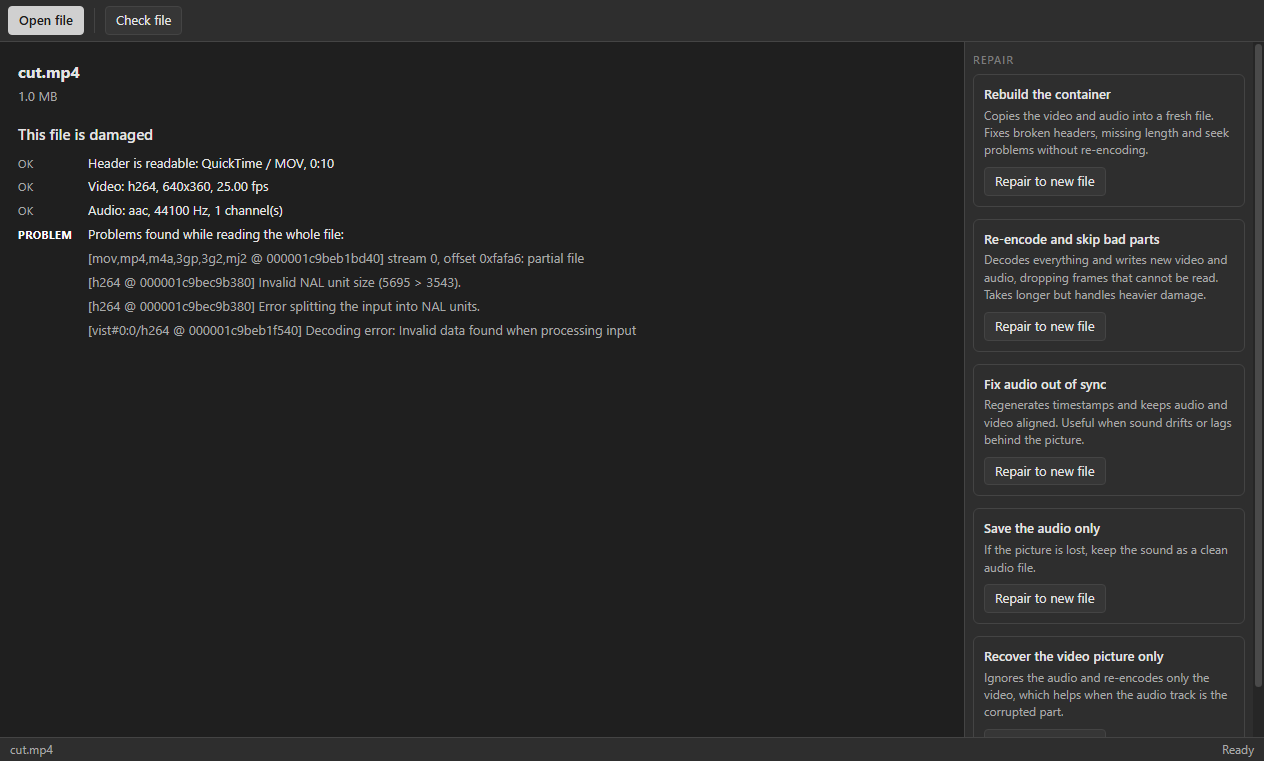
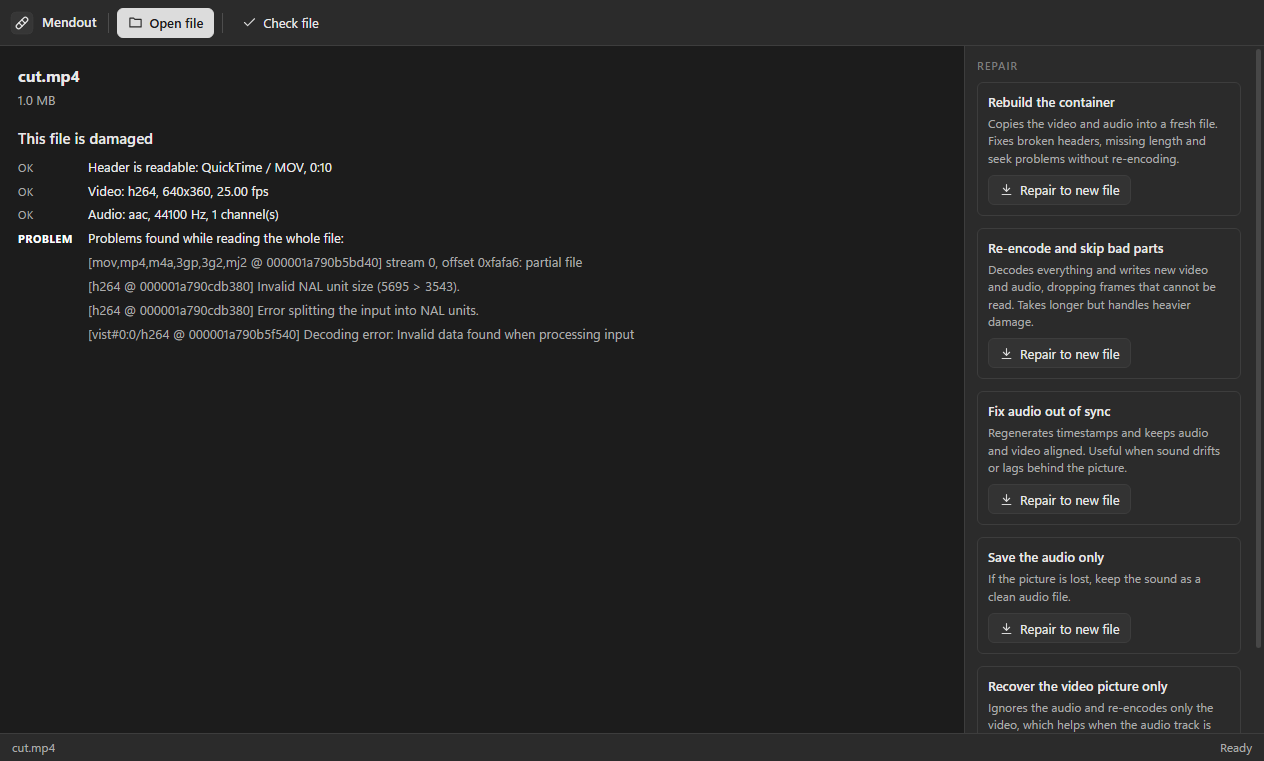
Mendout 1.0.2: refreshed interface
Refreshed interface: line icons on every toolbar button, the app mark in the top bar, consistent control sizes and spacing, tidier side panels, and a toolbar that adapts to smaller windows. Also includes layout fixes and a fuller guide on the project page.

diff --git a/renderer/lookout.css b/renderer/lookout.css
@@ -1,62 +1,119 @@
-/* Lookout gray UI kit: flat, no glow, no gradients, no hue. */
+/* Lookout gray UI kit v2: flat, calm, no hue. Shared by every Lookout app. */
 :root{
-  --bg:#262626; --bg-2:#2e2e2e; --bg-3:#363636; --line:#444; --line-2:#555;
-  --text:#e4e4e4; --text-2:#a8a8a8; --text-3:#7c7c7c;
-  --accent:#d0d0d0; --accent-ink:#1c1c1c; --focus:#9a9a9a;
-  --radius:4px; --font:"Segoe UI",system-ui,-apple-system,sans-serif; --mono:Consolas,"Cascadia Mono",monospace;
+  --bg:#232323; --bg-2:#2b2b2b; --bg-3:#333333; --bg-4:#3b3b3b; --stage:#1c1c1c;
+  --line:#3d3d3d; --line-2:#4d4d4d; --line-3:#5c5c5c;
+  --text:#e8e8e8; --text-2:#ababab; --text-3:#7d7d7d;
+  --accent:#dcdcdc; --accent-ink:#1b1b1b; --focus:#a0a0a0;
+  --radius:6px; --h:30px;
+  --font:"Segoe UI Variable Text","Segoe UI",system-ui,-apple-system,sans-serif; --mono:Consolas,"Cascadia Mono",monospace;
 }
 *{box-sizing:border-box;margin:0;padding:0}
 html,body{height:100%;background:var(--bg);color:var(--text);font:13px/1.45 var(--font);overflow:hidden;user-select:none;-webkit-font-smoothing:antialiased}
 button,input,select,textarea{font:inherit;color:inherit}
 .app{display:grid;grid-template-rows:auto 1fr auto;height:100vh}
-.toolbar{display:flex;align-items:center;gap:4px;padding:6px 8px;background:var(--bg-2);border-bottom:1px solid var(--line);flex-wrap:wrap}
-.toolbar .sep{width:1px;align-self:stretch;background:var(--line);margin:2px 6px}
-.toolbar .grow{flex:1}
-.btn{background:var(--bg-3);border:1px solid var(--line);border-radius:var(--radius);padding:4px 10px;cursor:pointer;white-space:nowrap}
-.btn:hover{background:#404040;border-color:var(--line-2)}
+
+/* ---------- toolbar ---------- */
+.toolbar{display:flex;align-items:center;gap:2px;padding:7px 10px;min-height:46px;background:var(--bg-2);border-bottom:1px solid var(--line);flex-wrap:nowrap;overflow-x:auto;overflow-y:hidden;scrollbar-width:none}
+.toolbar::-webkit-scrollbar{height:0}
+.toolbar>*{flex-shrink:0}
+.toolbar .sep{width:1px;height:20px;align-self:center;background:var(--line-2);margin:0 6px}
+.toolbar .grow{flex:1 1 auto;min-width:8px}
+.toolbar input[type=text],.toolbar input[type=search]{width:170px}
+.brand{display:flex;align-items:center;gap:8px;padding-right:6px;margin-right:4px;font-weight:600;font-size:13px;color:var(--text)}
+.brand img{width:24px;height:24px;border-radius:6px;display:block}
+.brand+.sep{margin-left:0}
+
+/* ---------- buttons ---------- */
+.btn{display:inline-flex;align-items:center;justify-content:center;gap:6px;height:var(--h);padding:0 10px;background:var(--bg-3);border:1px solid var(--line);border-radius:var(--radius);cursor:pointer;white-space:nowrap;line-height:1;transition:background .08s,border-color .08s}
+.btn:hover{background:var(--bg-4);border-color:var(--line-2)}
 .btn:active{background:#2a2a2a}
-.btn:focus-visible,input:focus-visible,select:focus-visible,textarea:focus-visible,[tabindex]:focus-visible{outline:1px solid var(--focus);outline-offset:1px}
+.btn:focus-visible,input:focus-visible,select:focus-visible,textarea:focus-visible,[tabindex]:focus-visible{outline:2px solid var(--focus);outline-offset:1px}
 .btn.primary{background:var(--accent);color:var(--accent-ink);border-color:var(--accent);font-weight:600}
-.btn.primary:hover{background:#e0e0e0}
-.btn.on{background:#4a4a4a;border-color:var(--line-2)}
-.btn[disabled]{opacity:.4;pointer-events:none}
-.btn.icon{padding:4px 8px;min-width:30px;text-align:center}
-input[type=text],input[type=number],input[type=search],select,textarea{background:var(--bg);border:1px solid var(--line);border-radius:var(--radius);padding:4px 8px;user-select:text}
-input[type=range]{accent-color:#bdbdbd}
-input[type=color]{border:1px solid var(--line);background:var(--bg);width:28px;height:24px;padding:1px;border-radius:var(--radius)}
-label.field{display:flex;flex-direction:column;gap:3px;color:var(--text-2);font-size:12px}
-.main{display:flex;min-height:0}
-.sidebar{width:220px;background:var(--bg-2);border-right:1px solid var(--line);overflow:auto;padding:8px;flex-shrink:0}
-.sidebar.right{border-right:0;border-left:1px solid var(--line);width:250px}
-.sidebar h3,.panel-title{font-size:11px;text-transform:uppercase;letter-spacing:.08em;color:var(--text-3);margin:10px 0 6px;font-weight:600}
+.btn.primary:hover{background:#ececec;border-color:#ececec}
+.btn.on{background:#4a4a4a;border-color:var(--line-3);box-shadow:inset 0 0 0 1px #6a6a6a}
+.btn[disabled]{opacity:.38;pointer-events:none}
+.btn.icon{padding:0;width:var(--h);min-width:var(--h)}
+.btn .ic{width:15px;height:15px;flex-shrink:0;display:block;opacity:.92}
+.toolbar .btn:not(.primary):not(.on){background:transparent;border-color:transparent}
+.toolbar .btn:not(.primary):not(.on):hover{background:var(--bg-4);border-color:var(--line-2)}
+
+.toolbar.c1 .btn.minor:not(.primary):has(> svg.ic),.toolbar.c2 .btn:not(.primary):has(> svg.ic),.toolbar.c3 .btn:has(> svg.ic){font-size:0;gap:0;width:var(--h);padding:0}
+.toolbar.c2 .brand span{display:none}
+.toolbar.c2 input[type=text],.toolbar.c2 input[type=search]{width:120px}
+
+/* ---------- fields ---------- */
+input[type=text],input[type=number],input[type=search],input[type=date],select,textarea{background:var(--bg);border:1px solid var(--line-2);border-radius:var(--radius);padding:0 9px;height:var(--h);user-select:text;min-width:0}
+textarea{height:auto;padding:7px 9px;resize:vertical;line-height:1.45}
+select{padding-right:6px;cursor:pointer}
+input:hover,select:hover,textarea:hover{border-color:var(--line-3)}
+input[type=range]{accent-color:#c8c8c8;height:var(--h)}
+input[type=checkbox]{accent-color:#c8c8c8;width:15px;height:15px;cursor:pointer}
+input[type=color]{border:1px solid var(--line-2);background:var(--bg);width:30px;height:var(--h);padding:2px;border-radius:var(--radius)}
+label.field{display:flex;flex-direction:column;gap:4px;color:var(--text-2);font-size:12px}
+label.field>input,label.field>select,label.field>textarea{width:100%;color:var(--text);font-size:13px}
+
+/* ---------- layout ---------- */
+.main{display:flex;min-height:0;min-width:0}
+.sidebar{width:228px;background:var(--bg-2);border-right:1px solid var(--line);overflow:auto;padding:10px 12px 14px;flex-shrink:0}
+.sidebar.right{border-right:0;border-left:1px solid var(--line);width:272px}
+.sidebar h3,.panel-title{font-size:11px;text-transform:uppercase;letter-spacing:.08em;color:var(--text-3);margin:16px 0 8px;font-weight:600}
 .sidebar h3:first-child{margin-top:2px}
-.stage{flex:1;min-width:0;min-height:0;position:relative;background:#1f1f1f;overflow:auto}
-.status{display:flex;gap:16px;align-items:center;padding:3px 10px;background:var(--bg-2);border-top:1px solid var(--line);color:var(--text-2);font-size:12px}
+.sidebar input[type=text],.sidebar input[type=search],.sidebar select,.sidebar textarea{width:100%}
+.sidebar .row{flex-wrap:wrap}
+.sidebar .row>.btn{flex:1 1 auto}
+.sidebar .row>label.field{flex:1 1 0;min-width:0}
+.sidebar label.field{margin-bottom:10px}
+.sidebar .btn{width:auto}
+.sidebar>.btn{width:100%;margin-bottom:6px}
+.stage{flex:1;min-width:0;min-height:0;position:relative;background:var(--stage);overflow:auto}
+.status{display:flex;gap:18px;align-items:center;height:28px;padding:0 12px;background:var(--bg-2);border-top:1px solid var(--line);color:var(--text-2);font-size:12px;white-space:nowrap;overflow:hidden}
 .status .grow{flex:1}
 .list{display:flex;flex-direction:column;gap:2px}
-.list .item{padding:5px 8px;border-radius:var(--radius);cursor:pointer;border:1px solid transparent;display:flex;gap:6px;align-items:center}
+.list .item{padding:6px 8px;border-radius:var(--radius);cursor:pointer;border:1px solid transparent;display:flex;gap:6px;align-items:center;min-height:30px}
 .list .item:hover{background:var(--bg-3)}
-.list .item.sel{background:#444;border-color:var(--line-2)}
+.list .item.sel{background:var(--bg-4);border-color:var(--line-2)}
 .row{display:flex;gap:6px;align-items:center}
+.grow{flex:1 1 auto;min-width:0}
+.brow{display:grid;grid-template-columns:1fr 1fr;gap:6px;margin-bottom:6px}
+.brow>.btn{justify-content:flex-start}
+.frow{display:flex;align-items:center;gap:8px;margin-bottom:8px;color:var(--text-2)}
+.frow>input[type=text],.frow>input[type=number]{flex:1;color:var(--text)}
+.frow>span:first-child{min-width:44px}
+.frow>select{flex:1;min-width:0}
+.sidebar input[type=range]{width:100%}
+.sidebar .swatches{margin-bottom:10px}
+.list .item .btn{height:24px!important;width:26px!important;padding:0!important;font-size:0!important;gap:0;background:transparent;border-color:transparent;opacity:.55}
+.list .item:hover .btn,.list .item.sel .btn{opacity:1}
+.list .item .btn:hover{background:var(--bg-4);border-color:var(--line-2)}
 .col{display:flex;flex-direction:column;gap:6px}
 .muted{color:var(--text-2)}
-.empty{position:absolute;inset:0;display:flex;flex-direction:column;align-items:center;justify-content:center;gap:10px;color:var(--text-3);text-align:center;padding:20px}
-.empty .big{font-size:18px;color:var(--text-2)}
-.modal-back{position:fixed;inset:0;background:rgba(0,0,0,.55);display:flex;align-items:center;justify-content:center;z-index:50}
-.modal{background:var(--bg-2);border:1px solid var(--line-2);border-radius:6px;min-width:340px;max-width:80vw;max-height:85vh;overflow:auto;padding:16px;display:flex;flex-direction:column;gap:12px}
-.modal h2{font-size:15px;font-weight:600}
-.toast{position:fixed;left:50%;bottom:34px;transform:translateX(-50%);background:var(--bg-3);border:1px solid var(--line-2);padding:7px 14px;border-radius:var(--radius);z-index:60}
-.progress{height:6px;background:var(--bg);border:1px solid var(--line);border-radius:3px;overflow:hidden}
-.progress>i{display:block;height:100%;background:var(--accent);width:0}
-table.grid{border-collapse:collapse;width:100%}
-table.grid th,table.grid td{border:1px solid var(--line);padding:4px 8px;text-align:left}
-table.grid th{background:var(--bg-2);color:var(--text-2);font-weight:600}
-::-webkit-scrollbar{width:11px;height:11px}
-::-webkit-scrollbar-thumb{background:#4a4a4a;border:2px solid var(--bg);border-radius:6px}
-::-webkit-scrollbar-track{background:var(--bg)}
-.swatches{display:flex;flex-wrap:wrap;gap:4px}
-.swatches button{width:22px;height:22px;border:1px solid var(--line-2);border-radius:3px;cursor:pointer;padding:0}
-.swatches button.on{outline:2px solid var(--accent);outline-offset:1px}
-.progress>div{display:block;height:100%;background:var(--accent)}
-table.grid tr.sel td{background:#3a3a3a}
+.empty{position:absolute;inset:0;display:flex;flex-direction:column;align-items:center;justify-content:center;gap:12px;color:var(--text-3);text-align:center;padding:24px}
+.empty .big{font-size:18px;color:var(--text-2);font-weight:600}
+
+/* ---------- overlays ---------- */
+.modal-back{position:fixed;inset:0;background:rgba(0,0,0,.6);display:flex;align-items:center;justify-content:center;z-index:50}
+.modal{background:var(--bg-2);border:1px solid var(--line-2);border-radius:10px;min-width:360px;max-width:80vw;max-height:85vh;overflow:auto;padding:20px;display:flex;flex-direction:column;gap:14px;box-shadow:0 18px 50px rgba(0,0,0,.5)}
+.modal h2{font-size:16px;font-weight:600}
+.toast{position:fixed;left:50%;bottom:40px;transform:translateX(-50%);background:var(--bg-4);border:1px solid var(--line-3);padding:9px 16px;border-radius:8px;z-index:60;box-shadow:0 8px 24px rgba(0,0,0,.4)}
+.progress{height:6px;background:var(--bg);border:1px solid var(--line);border-radius:4px;overflow:hidden}
+.progress>i,.progress>div{display:block;height:100%;background:var(--accent);width:0}
+
+/* ---------- tables ---------- */
+table.grid{border-collapse:separate;border-spacing:0;width:100%}
+table.grid th,table.grid td{border-bottom:1px solid var(--line);padding:0 12px;height:38px;text-align:left;vertical-align:middle}
+table.grid th{background:var(--bg-2);color:var(--text-2);font-weight:600;font-size:12px;position:sticky;top:0;z-index:1;height:34px}
+table.grid tbody tr:hover td{background:#262626}
+table.grid tr.sel td{background:#353535}
 table.grid tbody tr{cursor:default}
+table.grid td .btn{height:26px;margin-left:8px;vertical-align:middle}
+table.grid td{white-space:nowrap}
+
+/* ---------- misc ---------- */
+::-webkit-scrollbar{width:11px;height:11px}
+::-webkit-scrollbar-thumb{background:#474747;border:3px solid transparent;background-clip:padding-box;border-radius:8px}
+::-webkit-scrollbar-thumb:hover{background:#5a5a5a;background-clip:padding-box;border:3px solid transparent}
+::-webkit-scrollbar-track,::-webkit-scrollbar-corner{background:transparent}
+.swatches{display:flex;flex-wrap:wrap;gap:6px}
+.swatches button{width:24px;height:24px;border:1px solid var(--line-3);border-radius:5px;cursor:pointer;padding:0}
+.swatches button.on{outline:2px solid var(--accent);outline-offset:2px}
+kbd{font-family:var(--mono);font-size:11px;background:var(--bg-3);border:1px solid var(--line-2);border-bottom-width:2px;border-radius:4px;padding:0 5px}

diff --git a/renderer/kit.js b/renderer/kit.js
@@ -1,0 +1,137 @@
+// Lookout UI kit: adds the app mark to the toolbar and monochrome line icons to buttons.
+// Purely visual. Buttons keep their text, so nothing else changes.
+(function () {
+  'use strict';
+  const NS = 'http://www.w3.org/2000/svg';
+  const P = {
+    plus: 'M12 5v14M5 12h14',
+    file: 'M14 3H6v18h12V7zM14 3v4h4M12 11v6M9 14h6',
+    folder: 'M3 7V5h6l2 2h10v12H3z',
+    save: 'M5 3h11l3 3v15H5zM8 3v5h7V3M8 21v-7h8v7',
+    saveas: 'M5 3h11l3 3v6M5 3v18h7M8 3v5h7V3M15 21l6-6-2-2-6 6v2z',
+    undo: 'M9 14L4 9l5-5M4 9h10a6 6 0 010 12h-3',
+    redo: 'M15 14l5-5-5-5M20 9H10a6 6 0 000 12h3',
+    trash: 'M4 7h16M10 11v6M14 11v6M6 7l1 14h10l1-14M9 7V4h6v3',
+    copy: 'M9 9h11v11H9zM5 15H4V4h11v1',
+    paste: 'M9 4h6v3H9zM8 5H5v16h14V5h-3',
+    dup: 'M8 8h12v12H8zM4 16V4h12M14 11v6M11 14h6',
+    download: 'M12 4v11M7 10l5 5 5-5M5 20h14',
+    fit: 'M4 9V4h5M15 4h5v5M20 15v5h-5M9 20H4v-5',
+    play: 'M7 4l13 8-13 8z',
+    stop: 'M6 6h12v12H6z',
+    pause: 'M7 5h3v14H7zM14 5h3v14h-3z',
+    rec: 'M12 5a7 7 0 100 14 7 7 0 000-14z',
+    scissors: 'M6 9a3 3 0 100-6 3 3 0 000 6zM6 21a3 3 0 100-6 3 3 0 000 6zM8.2 7.8L20 19M8.2 16.2L20 5',
+    pointer: 'M5 3l14 7-6 2-2 6z',
+    hand: 'M8 13V6a1.5 1.5 0 013 0v5M11 11V4.5a1.5 1.5 0 013 0V11M14 11V6a1.5 1.5 0 013 0v8a7 7 0 01-7 7 6 6 0 01-5-3l-2.5-4.5a1.5 1.5 0 012.6-1.5L8 15',
+    connector: 'M5 19L19 5M13 5h6v6',
+    frame: 'M7 3v18M17 3v18M3 7h18M3 17h18',
+    rect: 'M4 6h16v12H4z',
+    ellipse: 'M12 5c4.4 0 8 3.1 8 7s-3.6 7-8 7-8-3.1-8-7 3.6-7 8-7z',
+    line: 'M5 19L19 5',
+    text: 'M5 6V4h14v2M12 4v16M9 20h6',
+    highlight: 'M14 4l6 6-8 8H6v-6zM4 21h16',
+    pen: 'M4 20l4-1 11-11-3-3L5 16zM14 7l3 3',
+    redact: 'M4 8h16v8H4z',
+    sign: 'M3 17c3-6 5-9 7-9 3 0-2 9 1 9 2 0 3-3 5-3s1 3 5 3M3 21h18',
+    eraser: 'M8 20l-4-4 10-10 6 6-10 8zM12 20h8',
+    search: 'M11 4a7 7 0 100 14 7 7 0 000-14zM16 16l5 5',
+    list: 'M9 6h11M9 12h11M9 18h11M4 6h.01M4 12h.01M4 18h.01',
+    child: 'M5 4v8a3 3 0 003 3h11M15 11l4 4-4 4',
+    sibling: 'M5 6h14M5 12h14M12 15v6M9 18h6',
+    collapse: 'M6 9l6 6 6-6',
+    expand: 'M7 14l5-5 5 5',
+    calendar: 'M4 6h16v14H4zM4 10h16M8 3v5M16 3v5',
+    diamond: 'M12 3l9 9-9 9-9-9z',
+    up: 'M12 19V5M6 11l6-6 6 6',
+    down: 'M12 5v14M6 13l6 6 6-6',
+    refresh: 'M20 11a8 8 0 10-2.3 5.7M20 4v7h-7',
+    check: 'M4 12l5 5L20 6',
+    convert: 'M4 8h13M13 4l4 4-4 4M20 16H7M11 12l-4 4 4 4',
+    eye: 'M2 12s4-7 10-7 10 7 10 7-4 7-10 7S2 12 2 12zM12 9a3 3 0 100 6 3 3 0 000-6z',
+    info: 'M12 3a9 9 0 100 18 9 9 0 000-18zM12 11v6M12 7.5h.01',
+    front: 'M8 8h12v12H8zM4 4h10v3M4 4v10h3',
+    back: 'M4 4h12v12H4zM20 8v12H8v-4',
+    merge: 'M6 3v6a6 6 0 006 6h6M15 12l3 3-3 3M6 21v-4',
+    rotl: 'M4 10a8 8 0 112 6M4 4v6h6',
+    rotr: 'M20 10a8 8 0 10-2 6M20 4v6h-6',
+    blank: 'M6 3h12v18H6z',
+    extract: 'M14 3H6v18h12V7zM14 3v4h4M12 10v7M9 14l3 3 3-3',
+    mic: 'M12 3a3 3 0 00-3 3v6a3 3 0 006 0V6a3 3 0 00-3-3zM6 11a6 6 0 0012 0M12 17v4',
+    clear: 'M6 6l12 12M18 6L6 18',
+    gaps: 'M3 6v12M21 6v12M7 12h10M10 9l-3 3 3 3M14 9l3 3-3 3',
+    title: 'M4 5h16v14H4zM8 9h8M12 9v7',
+    dashed: 'M4 12h3M10 12h4M17 12h3',
+    arrow: 'M4 12h15M14 7l5 5-5 5',
+    elbow: 'M4 6h8v12h8',
+    label: 'M3 12l6-7h12v14H9zM8 12h.01',
+    image: 'M4 5h16v14H4zM4 16l5-5 4 4 3-3 4 4M15 9h.01',
+    vector: 'M5 19L12 5l7 14M8 13h8M3 19h4M17 19h4',
+    table: 'M4 5h16v14H4zM4 10h16M4 15h16M10 5v14',
+    lock: 'M6 11h12v9H6zM8 11V8a4 4 0 018 0v3',
+    unlock: 'M6 11h12v9H6zM8 11V8a4 4 0 017.5-2',
+    eyeoff: 'M3 3l18 18M10.6 6.1A10 10 0 0112 6c6 0 10 6 10 6a17 17 0 01-3 3.6M6.6 6.6C3.8 8.3 2 12 2 12s4 7 10 7a9.7 9.7 0 004.4-1',
+  };
+  const MAP = {
+    'New': 'file', 'Open': 'folder', 'Open project': 'folder', 'Open file': 'folder', 'Save': 'save', 'Save project': 'save', 'Save as': 'saveas',
+    'Undo': 'undo', 'Redo': 'redo', 'Delete': 'trash', 'Delete clip': 'trash', 'Remove selected': 'trash', 'Copy': 'copy', 'Paste': 'paste', 'Duplicate': 'dup',
+    'Export PNG': 'image', 'Export SVG': 'vector', 'Export CSV': 'table', 'Export': 'download', 'Export page as PNG': 'download', 'Extract all text': 'text',
+    'Fit': 'fit', 'Play': 'play', 'Stop': 'stop', 'Pause': 'pause', 'Resume': 'play', 'Record': 'rec', 'Split': 'scissors', 'Split here': 'scissors',
+    'Select': 'pointer', 'Move': 'pointer', 'Hand': 'hand', 'Connector': 'connector', 'Frame': 'frame', 'Rectangle': 'rect', 'Box': 'rect', 'Ellipse': 'ellipse', 'Line': 'line', 'Text': 'text',
+    'Highlight': 'highlight', 'Pen': 'pen', 'Redact': 'redact', 'Sign': 'sign', 'Erase': 'eraser', 'Preview': 'eye', 'Outline': 'list',
+    'Add child': 'child', 'Add sibling': 'sibling', 'Edit': 'pen', 'Collapse': 'collapse', 'Expand all': 'expand', 'Today': 'calendar',
+    'Add task': 'plus', 'Add milestone': 'diamond', 'Move up': 'up', 'Move down': 'down', 'Up': 'up', 'Down': 'down',
+    'Import media': 'plus', 'Add files': 'plus', 'Output folder': 'folder', 'Convert all': 'convert', 'Clear finished': 'clear', 'Show': 'folder', 'Show in folder': 'folder',
+    'Check file': 'check', 'Repair to new file': 'download', 'Refresh sources': 'refresh', 'Start recording': 'rec', 'Stop and review': 'stop', 'New recording': 'rec',
+    'Check for updates': 'refresh', 'Info': 'info', 'Merge': 'merge', 'Rotate L': 'rotl', 'Rotate R': 'rotr', 'Blank': 'blank', 'Extract': 'extract',
+    'Front': 'front', 'Back': 'back', 'Close gaps': 'gaps', 'Title text': 'title', 'Dashed': 'dashed', 'Arrow on/off': 'arrow', 'Straight / Elbow': 'elbow', 'Edit label': 'label',
+    'Cut': 'scissors', 'Trim to selection': 'fit', 'Locate missing files': 'search',
+  };
+  const LMAP = { 'Hide': 'eye', 'Show': 'eyeoff', 'Lock': 'unlock', 'Unlock': 'lock' };
+  function icon(name) {
+    const s = document.createElementNS(NS, 'svg');
+    s.setAttribute('viewBox', '0 0 24 24'); s.setAttribute('class', 'ic'); s.setAttribute('aria-hidden', 'true');
+    s.setAttribute('fill', 'none'); s.setAttribute('stroke', 'currentColor'); s.setAttribute('stroke-width', '1.8');
+    s.setAttribute('stroke-linecap', 'round'); s.setAttribute('stroke-linejoin', 'round');
+    const p = document.createElementNS(NS, 'path'); p.setAttribute('d', P[name]); s.append(p);
+    return s;
+  }
+  function decorate(b) {
+    if (b.tagName !== 'BUTTON' || !b.classList.contains('btn')) return;
+    const label = (b.textContent || '').trim();
+    const name = (b.closest('.list') && LMAP[label]) || MAP[label];
+    const cur = b.querySelector(':scope > svg.ic');
+    if (cur && cur.dataset.for === label) return;
+    if (cur) cur.remove();
+    if (!name) return;
+    const s = icon(name); s.dataset.for = label; b.prepend(s);
+    if (!b.title) b.title = label;
+  }
+  function brand(bar) {
+    if (!bar || bar.querySelector(':scope > .brand') || (document.title && (bar.textContent || '').includes(document.title))) return;
+    const name = document.title || '';
+    const d = document.createElement('div'); d.className = 'brand';
+    const img = document.createElement('img'); img.src = 'brand.svg'; img.alt = '';
+    const t = document.createElement('span'); t.textContent = name;
+    d.append(img, t);
+    const sep = document.createElement('span'); sep.className = 'sep';
+    bar.prepend(d, sep);
+  }
+  const MINOR = new Set(['New', 'Open', 'Undo', 'Redo', 'Copy', 'Paste', 'Duplicate', 'Delete', 'Front', 'Back', 'Fit', 'Hand', 'Merge', 'Move up', 'Move down', 'Today', 'Cut', 'Dashed', 'Arrow on/off', 'Straight / Elbow', 'Edit label', 'Output folder', 'Remove selected', 'Clear finished', 'Refresh sources', 'Stop', 'Collapse', 'Expand all', 'Select', 'Move']);
+  function fitBar(bar) {
+    bar.classList.remove('c1', 'c2', 'c3');
+    bar.querySelectorAll(':scope > .btn').forEach((b) => b.classList.toggle('minor', MINOR.has((b.textContent || '').trim())));
+    for (const c of ['c1', 'c2', 'c3']) { if (bar.scrollWidth <= bar.clientWidth + 1) break; bar.classList.add(c); }
+  }
+  window.addEventListener('resize', () => { const bar = document.querySelector('.app > .toolbar'); if (bar) fitBar(bar); });
+  let queued = false;
+  function sweep() {
+    queued = false;
+    document.querySelectorAll('.btn').forEach(decorate);
+    const bar = document.querySelector('.app > .toolbar');
+    if (bar && bar.children.length) { brand(bar); fitBar(bar); }
+  }
+  const mo = new MutationObserver(() => { if (!queued) { queued = true; requestAnimationFrame(sweep); } });
+  function start() { mo.observe(document.body, { childList: true, subtree: true, characterData: true }); sweep(); }
+  if (document.readyState === 'loading') document.addEventListener('DOMContentLoaded', start); else start();
+})();

diff --git a/renderer/index.html b/renderer/index.html
@@ -10,6 +10,7 @@
 </head>
 <body>
 <div class="app" id="app"></div>
+<script src="kit.js"></script>
 <script src="app.js"></script>
 </body>
 </html>

diff --git a/README.md b/README.md
@@ -1,6 +1,6 @@
 <p align="center"><img src="screenshots/banner.png" alt="Mendout" width="100%"></p>
 
-<p align="center"><b>Repair damaged media</b><br>Version 1.0.1 for Windows · Free · Offline · No account</p>
+<p align="center"><b>Repair damaged media</b><br>Version 1.0.2 for Windows · Free · Offline · No account</p>
 
 <p align="center"><a href="https://github.com/plawanpawin-byte/mendout/releases/latest"><b>Download Mendout</b></a> · <a href="https://github.com/plawanpawin-byte/Lookout">All Lookout apps</a></p>
 
@@ -11,6 +11,12 @@ Mendout checks a video or audio file for problems and repairs it into a new file
 **Made for:** A recording that stopped early, a file that will not seek or play, or audio that drifts away from the picture.
 
 ![Mendout](screenshots/01-file-opened.png)
+
+**On this page:** [Screenshots](#see-it-in-action) · [Interface](#the-interface) · [Features](#everything-it-can-do) · [How to use it](#how-to-use-it) · [Formats](#files-and-formats) · [Privacy](#private-by-design) · [Install](#install) · [Questions](#questions)
+
+## What is new in 1.0.2
+
+A refreshed interface: every toolbar button now has a clear line icon, the app's mark sits at the top left, controls share one height and spacing, panels line up in tidy grids, and the toolbar keeps every button reachable on smaller windows by switching less important buttons to icons.
 
 ## See it in action
 
@@ -49,6 +55,12 @@ A clean report means nothing needs fixing.
 ![Output](screenshots/06-repaired-video-frame.png)
 
 A frame from the repaired video.
+
+## The interface
+
+- **Top bar:** open a file and check it.
+- **Centre:** the report, with each finding marked OK or Problem, followed by the result of a repair.
+- **Right panel:** the repair methods, each with a short explanation and its own button.
 
 ## Everything it can do
 
@@ -106,5 +118,15 @@ No. If the beginning of a file is destroyed there may be nothing to rebuild. Men
 ## About Lookout
 
 Mendout belongs to the **[Lookout](https://github.com/plawanpawin-byte/Lookout)** family: ten small, private Windows apps for documents and media, all with the same calm grey look and the same promise that your files stay yours. Install and update them together with the [Lookout launcher](https://github.com/plawanpawin-byte/lookout-launcher).
+
+- **[Pageout](https://github.com/plawanpawin-byte/pageout)**: read, annotate and sign pdfs
+- **[Chartout](https://github.com/plawanpawin-byte/chartout)**: flowcharts and diagrams
+- **[Branchout](https://github.com/plawanpawin-byte/branchout)**: mind maps and outlines
+- **[Planout](https://github.com/plawanpawin-byte/planout)**: plans and gantt timelines
+- **[Frameout](https://github.com/plawanpawin-byte/frameout)**: screen design and prototypes
+- **[Cutout](https://github.com/plawanpawin-byte/cutout)**: video editing on a timeline
+- **[Shiftout](https://github.com/plawanpawin-byte/shiftout)**: convert and compress media
+- **[Castout](https://github.com/plawanpawin-byte/castout)**: record your screen
+- **[Tuneout](https://github.com/plawanpawin-byte/tuneout)**: record and edit audio
 
 Released under the MIT License.
